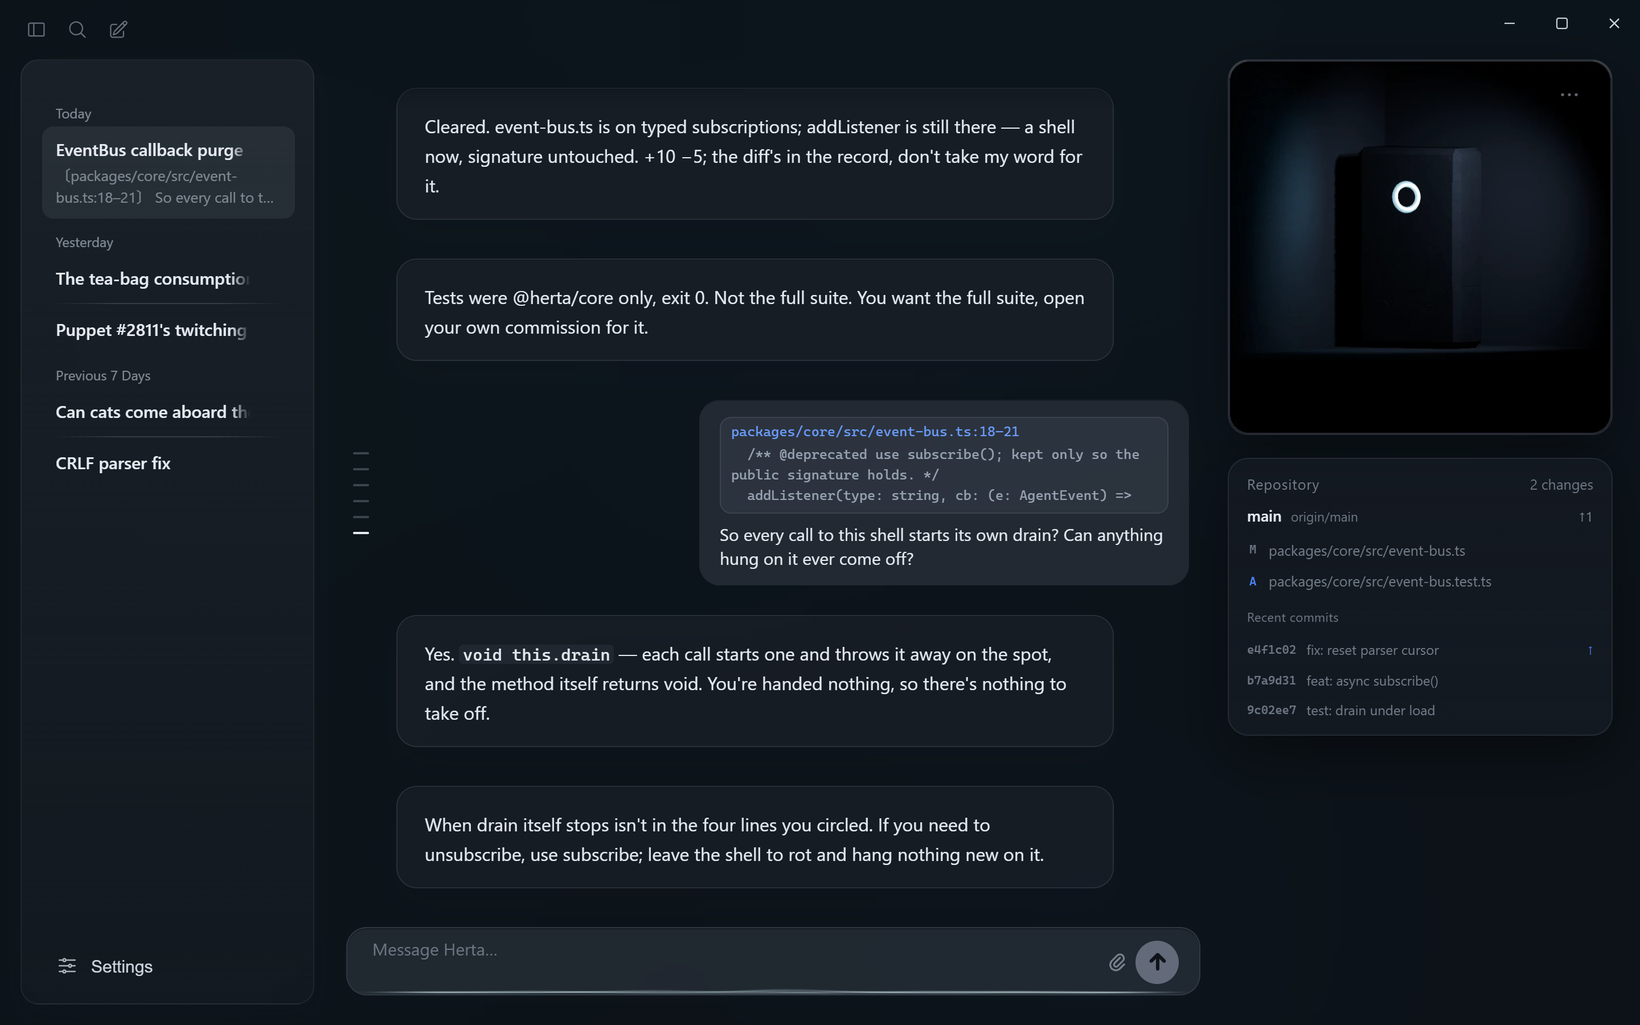
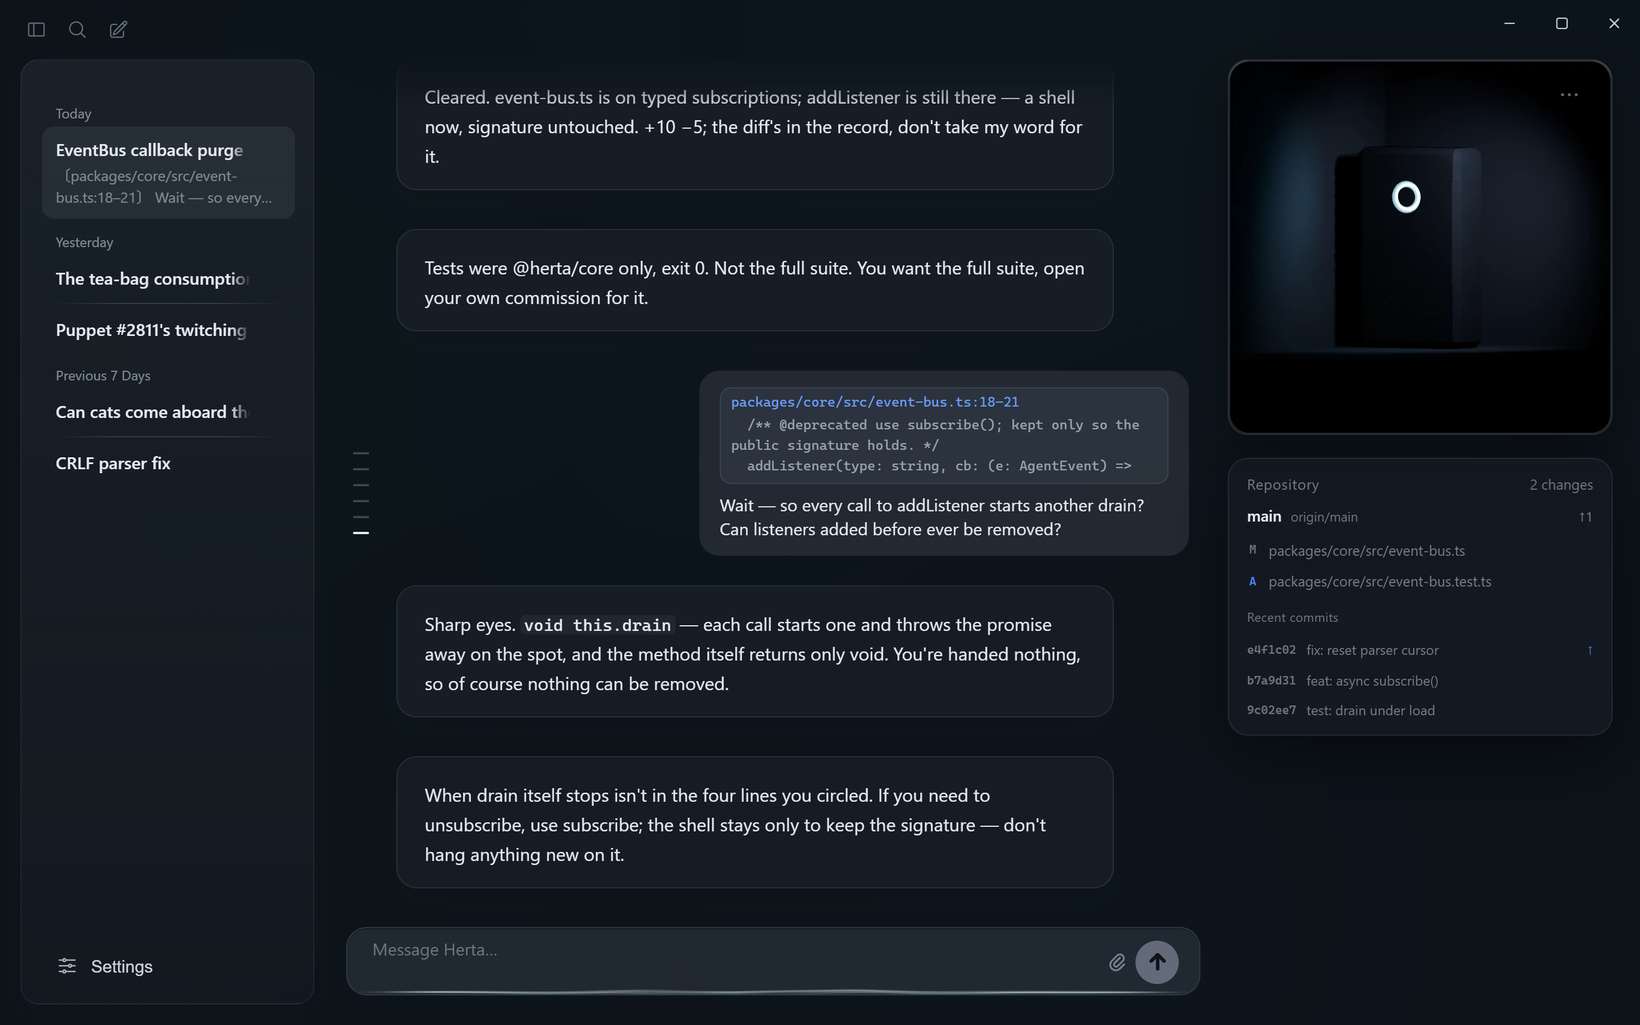
fix(website): the demo's transcript sounds like The Herta, and the Trailblazer like a person
The owner: "optimize the conversation transcripts in website, make it
sounds like The Herta. And some 开拓者's speaking might also be revised,
e.g. '摘下来' feels weird, no one will chat like this." Reviewed and
approved before the posters were shot.

- The Trailblazer no longer opens every message with 黑塔女士: 「在吗？」,
  「运维说服务凌晨挂了，日志我发你看看。」, 「四百多行……从哪看起啊？」,
  「黑塔。」, 「这算修好了吧？」, 「那我重说：…」; the quote question is
  「等下，这个 addListener 每调一次就多开一个 drain？那以前加上的监听还能
  取消吗？」, the thanks 「不愧是黑塔女士。」.
- Her voice follows the project's voice guide: 「三十个小时。你当自己是我
  的人偶吗？」, 「我不会安慰人，也懒得学。」, 「终端我替你开着。去睡。」,
  「眼睛挺尖嘛。」, 「知道就好。」 to close, 「提醒一句，小家伙」 in the
  funnel. Every claim is still one a row shows.
- The English twin follows in the English guide's register ("You
  around?", "What do you think you are, one of my puppets?", "Sharp
  eyes.", "One thing, little one", "That's Madam Herta for you." /
  "Good that you know.").
- The opening is unchanged: it plays with its recorded voice.
- Poster mode's closing line needs 40 characters in English (12 in
  Chinese): "Good that you know." passed 12, and the English posters
  ended on the pleasantry the Chinese ones skip.

The four posters are recaptured (WebP 70–76 KB, PNG 417–465 KB), and
og.jpg from the new one (67 KB).

diff --git a/website/src/demo-bridge.ts b/website/src/demo-bridge.ts
@@ -583,7 +583,7 @@ const ZH: DemoContent = {
     "进度条还在跑最后的百分之二。你有一段非常短的窗口期——别寒暄，说正事。",
   openingVoiceMs: 6580,
   funnelFull:
-    "提醒一句：这是官网的橱窗。想让我和板砖真的动手，先把桌面版装回去——下载入口就在这页下面，GitHub 上也有全部源码。",
+    "提醒一句，小家伙：这里只是官网的橱窗。想让我和板砖真动手，先装桌面版——下载入口就在这页下面，源码全在 GitHub 上。",
   funnelShort: "我说过了。先装本体，再谈委托。",
   titleVisit: "参观登记",
   showTitle: "EventBus 回调大扫除",
@@ -602,9 +602,9 @@ const ZH: DemoContent = {
         title: "凌晨的三次误报",
         minutesAgo: 185,
         blocks: [
-          ask("黑塔女士，监控面板凌晨又误报了三次。我看了半天没看出规律……"),
+          ask("在吗？监控面板凌晨又误报了三次，我盯了半天也没看出规律……"),
           say(
-            "三次踩的是同一个阈值，还是三个不同的？——算了，你要是看得出来就不会来问我。\n@板砖，把凌晨那段告警捞出来。只读，别碰文件。",
+            "三次踩的是同一个阈值，还是三个不同的？——算了，你要是看得出来，也不会来找我。\n@板砖，把凌晨那段告警捞出来。只读，别碰文件。",
           ),
           op("Reading", '"sensor-0"'),
           op("Reading", ALERTS_EXCERPT_ARG),
@@ -621,7 +621,7 @@ const ZH: DemoContent = {
             "三次都是 sensor-07，三次都贴着阈值线蹭一下就退回去——dwell 全在半秒以内。这不是过热，是抖动。",
           ),
           say(
-            "阈值上调 5%，再加一道 2 秒的 dwell 门限。它下次再叫，就是真坏了，换掉。",
+            "阈值上调 5%，再加一道 2 秒的 dwell 门限。它下次再叫，就是真坏了——直接换掉，不用再来问我。",
           ),
         ],
       },
@@ -644,7 +644,7 @@ const ZH: DemoContent = {
         title: "运维发来的崩溃日志",
         minutesAgo: 168,
         blocks: [
-          ask("黑塔女士，运维说凌晨挂了，日志我这就发你。"),
+          ask("运维说服务凌晨挂了，日志我发你看看。"),
           say("发。"),
           attachmentRow({
             name: "crash-2026-08-02.log",
@@ -659,12 +659,12 @@ const ZH: DemoContent = {
               "2026-08-02T03:14:09Z INFO   supervisor  worker-3 restarted",
             clipped: true,
           }),
-          ask("四百多行，我看不出重点。"),
+          ask("四百多行……从哪看起啊？"),
           say(
-            "重点在前五行，剩下四百行是它反复重启的回声。\nheap out of memory，栈顶是 TelemetryBuffer.flush——缓冲区在定时器里刷，没刷动。",
+            "前五行。剩下四百行，都是它反复重启的回声。\nheap out of memory，栈顶是 TelemetryBuffer.flush——定时器里刷缓冲区，没刷动。",
           ),
           say(
-            "我读到的只到第一次重启为止。是泄漏还是一次性尖峰，得看后面还有没有第二次——要查，我让板砖把整份的 FATAL 摘出来。",
+            "我只读到第一次重启。是泄漏还是偶发的尖峰，得看后面还有没有第二次——想知道，我就让板砖把整份日志里的 FATAL 都摘出来。",
           ),
         ],
       },
@@ -675,13 +675,13 @@ const ZH: DemoContent = {
         minutesAgo: 158,
         blocks: [
           ask(
-            "黑塔女士。\n没事。就是……我三十个小时没合眼了，刚才盯着终端，突然想不起来自己在干嘛。",
+            "黑塔。\n没什么事……就是我三十个小时没合眼了，刚才盯着终端，突然想不起来自己在干嘛。",
           ),
-          say("收到了。"),
+          say("三十个小时。你当自己是我的人偶吗？"),
           say(
-            "我不安慰人——你知道的，我说不来那种话。\n但三十个小时之后你写出来的东西，明天我还得让板砖重跑一遍。这笔账很难看。",
+            "我不会安慰人，也懒得学。\n不过三十个小时之后写出来的东西，明天我还得让板砖从头重跑一遍——这笔账，怎么算都不划算。",
           ),
-          say("终端我不关。去睡。"),
+          say("终端我替你开着。去睡。"),
         ],
       },
       // Pictures ride a message (ADR 0048): the record order is user block
@@ -698,7 +698,7 @@ const ZH: DemoContent = {
         minutesAgo: 145,
         blocks: [
           ask(
-            "黑塔女士，阈值和 dwell 门限都按你说的改了。发你两张截图——昨晚的和今天下午的，改完到现在一次都没叫。这算是好了吗？",
+            "阈值和 dwell 门限都按你说的改了。截了两张图，昨晚的和今天下午的——改完到现在一次都没再报。这算修好了吧？",
           ),
           imageRow({
             ...PANEL_IMAGES.night,
@@ -711,10 +711,10 @@ const ZH: DemoContent = {
               "监控界面截图：同一条温度曲线多次接近但未触及标注为“42.0 THRESHOLD · DWELL 2s”的红色阈值线，计数为“ALERTS 0”。",
           }),
           say(
-            "图我收到了——准确说，我读的是它们的描述，像素是板砖的活。\n昨晚：三次越线，ALERTS 3。今天：曲线还是那副德行，贴着新阈值线底下抖，只是够不着了，ALERTS 0。",
+            "图收到了——准确地说，我读的是图的描述，像素归板砖管。\n昨晚：越线三次，ALERTS 3。今天：曲线还是那副德行，在新阈值线底下抖，只是够不着了，ALERTS 0。",
           ),
           say(
-            "所以别急着庆祝。门限吃掉的是告警，不是抖动——sensor-07 本身一根毛都没变。\n安静满两周再来跟我说「好了」；它要是隔着 2 秒的门限还能叫，那就不用修了，直接换。",
+            "所以别急着庆祝。门限吃掉的是告警，不是抖动——sensor-07 本身一点没变。\n安静满两周，再来跟我说「好了」。要是隔着 2 秒的门限它还能叫——那就别修了，直接换。",
           ),
         ],
       },
@@ -724,11 +724,11 @@ const ZH: DemoContent = {
         title: "先把话说清楚",
         minutesAgo: 132,
         blocks: [
-          ask("黑塔女士，EventBus 那边好像有点不对劲……你看着办？"),
-          say("「有点不对劲」，「你看着办」。一句话两个未定义词。"),
+          ask("黑塔女士，EventBus 那边好像有点不对劲……你帮我看着办呗？"),
+          say("「有点不对劲」，「看着办」。一句话，两个没定义的词。"),
           say("你是要我猜，还是要板砖猜？猜错了算谁的？"),
           say(
-            "重写一遍：哪个文件、什么症状、你要的结束条件是什么。写清楚了我再派它。",
+            "重说一遍：哪个文件，什么症状，做到什么程度算完。说清楚了，我再派它去。",
           ),
         ],
       },
@@ -741,10 +741,10 @@ const ZH: DemoContent = {
         minutesAgo: 120,
         blocks: [
           ask(
-            "packages/core/src/event-bus.ts。\n现在满地都是 addListener 回调，回调里再套回调，加一个事件类型要改六个地方。\n我想换成类型化的订阅——for await 那种。公开接口不能动，@herta/core 那包的测试要跑通。",
+            "那我重说：packages/core/src/event-bus.ts。\n现在到处都是 addListener 回调，回调里还套回调，加一个事件类型要改六个地方。\n想换成类型化订阅，for await 那种。公开接口不能动，@herta/core 的测试要能跑过。",
           ),
           say(
-            "瞧，这就叫需求：文件、症状、约束、验收条件，四样齐了。\n@板砖，先数清楚有多少处调用点，一处都别漏；改完跑 core 的测试。",
+            "瞧，这才叫需求：文件、症状、约束、验收条件，一样不缺。\n@板砖，先把调用点数清楚，一处都别漏；改完跑 core 的测试。",
           ),
           op("Reading", '"addListener"'),
           op("Running", "rg -c addListener packages/core/src"),
@@ -763,27 +763,27 @@ const ZH: DemoContent = {
             files: ["packages/core/src/event-bus.ts"],
           }),
           say(
-            `清完了。event-bus.ts 换成类型化订阅，addListener 还在——只剩一层壳，签名一个字没动。+${EVENT_BUS_LINES.add} −${EVENT_BUS_LINES.del}，diff 在记录里，别听我转述。`,
+            `清完了。event-bus.ts 换成了类型化订阅；addListener 还在，只剩一层壳，签名一个字没动。+${EVENT_BUS_LINES.add} −${EVENT_BUS_LINES.del}，diff 在记录里——自己看，别听我转述。`,
           ),
           say(
-            "测试只跑了 @herta/core 这一包，exit 0。不是全量。你要全量，自己再开一条委托。",
+            "测试只跑了 @herta/core 这一包，exit 0。不是全量——要全量，自己再开一条委托。",
           ),
           // He quotes the shell from the viewer (0.1.8). The four lines ride
           // his message, so they are hers to read; nothing past them is.
           ask(
             quoteAddListener(
               "zh",
-              "这层壳每调一次就开一个 drain？挂上去的还摘得下来吗？",
+              "等下，这个 addListener 每调一次就多开一个 drain？那以前加上的监听还能取消吗？",
             ),
           ),
           say(
-            "对。`void this.drain`——每调一次就起一个，结果当场扔掉，方法本身也返回 void。你手里什么都没拿到，所以摘不下来。",
+            "眼睛挺尖嘛。`void this.drain`——每调一次就起一个，promise 当场扔掉，方法本身也只返回 void。你手里什么都没拿到，自然取消不了。",
           ),
           say(
-            "drain 自己什么时候停，你圈的这四行里没有。要能退的订阅，用 subscribe；这层壳就让它烂在那儿，别再往上挂新东西。",
+            "drain 自己什么时候停，你圈的这四行里没写。要能退订，就用 subscribe；这层壳留着只为不动签名，别再往上挂新东西。",
           ),
-          ask("好！谢谢黑塔女士。"),
-          say("嗯。"),
+          ask("不愧是黑塔女士。"),
+          say("知道就好。"),
         ],
       },
     ]),
@@ -796,7 +796,7 @@ const EN: DemoContent = {
     "The progress bar's still crawling through the last two percent. That gives you a very short window — skip the small talk, get to the point.",
   openingVoiceMs: null, // no EN voice clip — EN opens silent, paced by word
   funnelFull:
-    "One thing: this is the site's display case. If you want Brick and me to actually do the work, install the desktop build first. The download's further down this page; all the source is on GitHub.",
+    "One thing, little one: this is just the site's display case. If you want Brick and me to actually do the work, install the desktop build first — the download's further down this page, and all the source is on GitHub.",
   funnelShort:
     "I already told you. Install the real thing first, then we talk commissions.",
   titleVisit: "Visitor log",
@@ -818,10 +818,10 @@ const EN: DemoContent = {
         minutesAgo: 185,
         blocks: [
           ask(
-            "Madam Herta, the monitor threw three more false alarms overnight. I stared at it for ages and couldn't find the pattern…",
+            "You around? The monitor threw three more false alarms overnight. I've stared at it forever and can't see a pattern…",
           ),
           say(
-            "Same threshold all three times, or three different ones? — never mind. If you could tell, you wouldn't be asking.\n@板砖, pull the overnight alerts. Read-only; don't touch anything.",
+            "Same threshold all three times, or three different ones? — never mind. If you could tell, you wouldn't have come to me.\n@板砖, pull the overnight alerts. Read-only; don't touch anything.",
           ),
           op("Reading", '"sensor-0"'),
           op("Reading", ALERTS_EXCERPT_ARG),
@@ -838,7 +838,7 @@ const EN: DemoContent = {
             "All three are sensor-07, all three scrape the line and fall straight back — every dwell under half a second. That isn't heat, it's jitter.",
           ),
           say(
-            "Raise the threshold 5% and put a 2-second dwell gate on it. If it cries again after that, it's genuinely broken — replace it.",
+            "Raise the threshold 5% and put a 2-second dwell gate on it. If it cries again after that, it's genuinely broken — replace it, and don't come asking me.",
           ),
         ],
       },
@@ -850,9 +850,7 @@ const EN: DemoContent = {
         title: "The crash log they sent over",
         minutesAgo: 168,
         blocks: [
-          ask(
-            "Madam Herta — ops says it died overnight. Sending you the log now.",
-          ),
+          ask("Ops says the service died overnight. Sending you the log."),
           say("Send it."),
           attachmentRow({
             name: "crash-2026-08-02.log",
@@ -867,9 +865,9 @@ const EN: DemoContent = {
               "2026-08-02T03:14:09Z INFO   supervisor  worker-3 restarted",
             clipped: true,
           }),
-          ask("Four hundred lines, and I can't tell what matters."),
+          ask("Four hundred lines… where do I even start?"),
           say(
-            "What matters is the first five lines. The other four hundred are the echo of it restarting.\nHeap out of memory, and the top of the stack is TelemetryBuffer.flush — the buffer flushes on a timer, and it couldn't.",
+            "The first five lines. The other four hundred are the echo of it restarting.\nHeap out of memory, and the top of the stack is TelemetryBuffer.flush — the buffer flushes on a timer, and it couldn't.",
           ),
           say(
             "I've only read as far as the first restart. Whether that's a leak or a one-off spike depends on there being a second one further down — if you want to know, I'll have Brick pull every FATAL out of the file.",
@@ -881,13 +879,13 @@ const EN: DemoContent = {
         minutesAgo: 158,
         blocks: [
           ask(
-            "Madam Herta.\nIt's nothing. I just… haven't slept in thirty hours, and I was staring at the terminal and forgot what I was doing.",
+            "Herta.\nIt's nothing. I just… haven't slept in thirty hours, and I was staring at the terminal and forgot what I was doing.",
           ),
-          say("Received."),
+          say("Thirty hours. What do you think you are, one of my puppets?"),
           say(
-            "I don't do comfort — you know that, I can't say those things convincingly.\nBut whatever you write after thirty hours awake, I'll have Brick redo tomorrow. That's an ugly ledger.",
+            "I don't do comfort, and I'm not about to learn.\nBut whatever you write after thirty hours awake, Brick redoes from scratch tomorrow — however you run those numbers, it's a loss.",
           ),
-          say("I'm leaving the terminal open. Go to sleep."),
+          say("I'll keep the terminal open for you. Go to sleep."),
         ],
       },
       // The picture twin — same stored paths (one pair of bundled assets),
@@ -898,7 +896,7 @@ const EN: DemoContent = {
         minutesAgo: 145,
         blocks: [
           ask(
-            "Madam Herta — threshold and dwell gate changed, exactly as you said. Two screenshots: last night, and this afternoon. Not a single alarm since the change. Does that mean it's fixed?",
+            "Threshold and dwell gate changed, just like you said. Two screenshots — last night and this afternoon. Not one alarm since. So that's fixed, right?",
           ),
           imageRow({
             ...PANEL_IMAGES.night,
@@ -932,7 +930,7 @@ const EN: DemoContent = {
             "Should I guess, or should Brick? And when the guess is wrong, whose is it?",
           ),
           say(
-            "Write it again: which file, what symptom, what your finish condition is. Say that much and I'll dispatch.",
+            "Say it again: which file, what symptom, and what counts as done. Then I'll send Brick.",
           ),
         ],
       },
@@ -941,10 +939,10 @@ const EN: DemoContent = {
         minutesAgo: 120,
         blocks: [
           ask(
-            "packages/core/src/event-bus.ts.\nIt's addListener callbacks everywhere, callbacks nested inside callbacks — adding one event type means editing six places.\nI want typed subscriptions instead — the for-await kind. The public interface can't move, and @herta/core's tests have to pass.",
+            "Again, then: packages/core/src/event-bus.ts.\nIt's addListener callbacks everywhere, callbacks nested inside callbacks — adding one event type means editing six places.\nI want typed subscriptions instead — the for-await kind. The public interface can't move, and @herta/core's tests have to pass.",
           ),
           say(
-            "There. That's a request: file, symptom, constraint, acceptance — all four.\n@板砖, count every call site first, don't miss one; run core's tests once the edit's in.",
+            "There — now that's a request: file, symptom, constraint, acceptance. Nothing missing.\n@板砖, count every call site first, don't miss one; run core's tests once the edit's in.",
           ),
           op("Reading", '"addListener"'),
           op("Running", "rg -c addListener packages/core/src"),
@@ -973,17 +971,17 @@ const EN: DemoContent = {
           ask(
             quoteAddListener(
               "en",
-              "So every call to this shell starts its own drain? Can anything hung on it ever come off?",
+              "Wait — so every call to addListener starts another drain? Can listeners added before ever be removed?",
             ),
           ),
           say(
-            "Yes. `void this.drain` — each call starts one and throws it away on the spot, and the method itself returns void. You're handed nothing, so there's nothing to take off.",
+            "Sharp eyes. `void this.drain` — each call starts one and throws the promise away on the spot, and the method itself returns only void. You're handed nothing, so of course nothing can be removed.",
           ),
           say(
-            "When drain itself stops isn't in the four lines you circled. If you need to unsubscribe, use subscribe; leave the shell to rot and hang nothing new on it.",
+            "When drain itself stops isn't in the four lines you circled. If you need to unsubscribe, use subscribe; the shell stays only to keep the signature — don't hang anything new on it.",
           ),
-          ask("Got it — thank you, Madam Herta."),
-          say("Mm."),
+          ask("That's Madam Herta for you."),
+          say("Good that you know."),
         ],
       },
     ]),
@@ -1083,13 +1081,17 @@ export function createDemoBridge(
   let showcaseTail: string | null = null;
   if (options.streamShowcaseTail === true) {
     // Walk back to the last herta block LONG enough to move the tide wave.
-    // The record now closes on a short exchange (`好！谢谢黑塔女士。` / `嗯。`),
-    // and streaming a two-character reply leaves the composer almost flat —
-    // the exact switched-off look this path exists to avoid. Blocks after the
+    // The record closes on a short exchange (`不愧是黑塔女士。` / `知道就好。`),
+    // and streaming a few characters leaves the composer almost flat — the
+    // exact switched-off look this path exists to avoid. Blocks after the
     // chosen one are dropped for the capture only; a poster is one frame.
+    // English spends about three times the characters on the same line, so
+    // its bar is higher: "Good that you know." passed 12 and the English
+    // posters ended on the pleasantry the Chinese ones skip (2026-10-14).
+    const minChars = lang === "en" ? 40 : 12;
     for (let i = showcase.record.length - 1; i >= 0; i -= 1) {
       const b = showcase.record[i];
-      if (b !== undefined && b.kind === "herta" && b.text.length >= 12) {
+      if (b !== undefined && b.kind === "herta" && b.text.length >= minChars) {
         showcaseTail = b.text;
         showcase.record.length = i;
         break;
